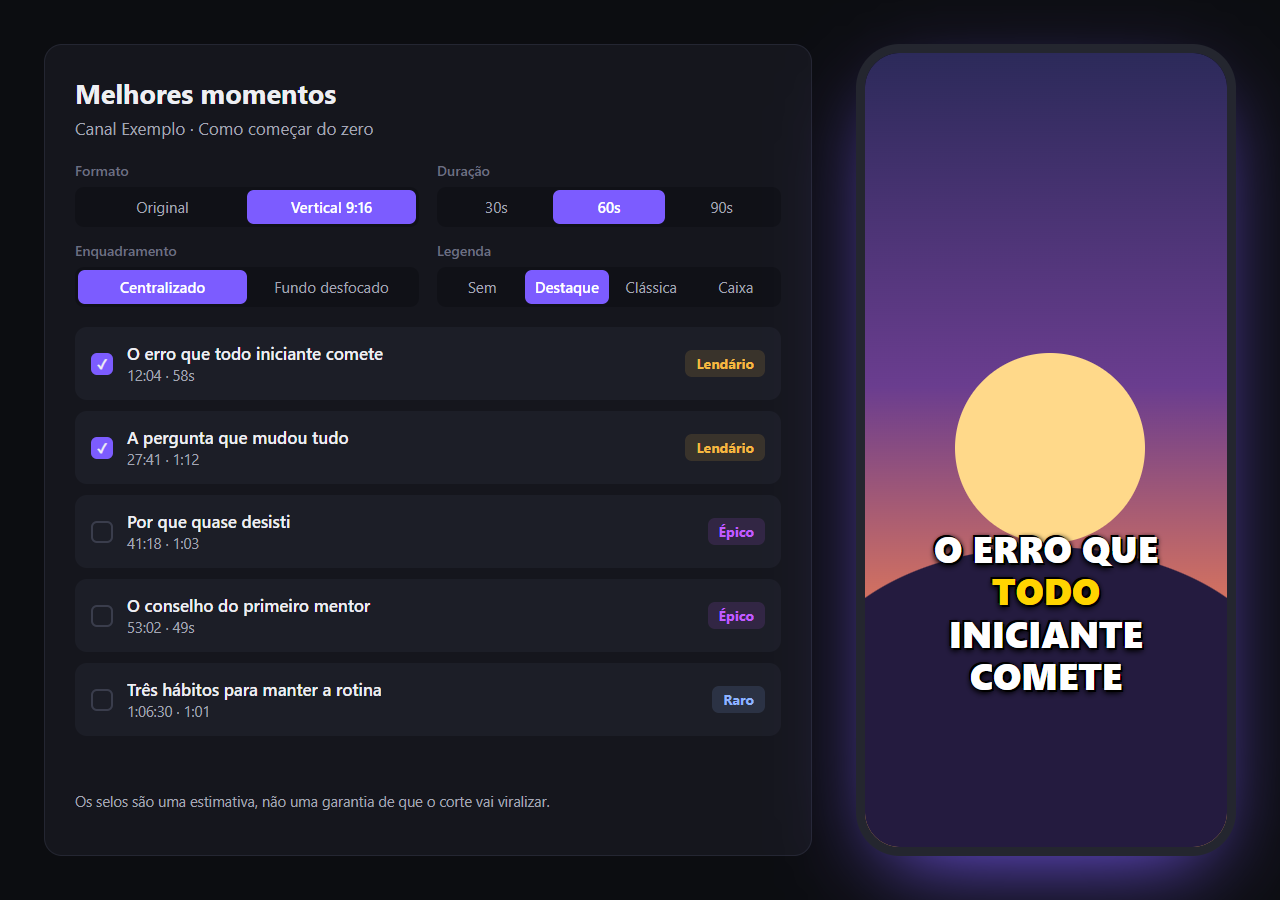
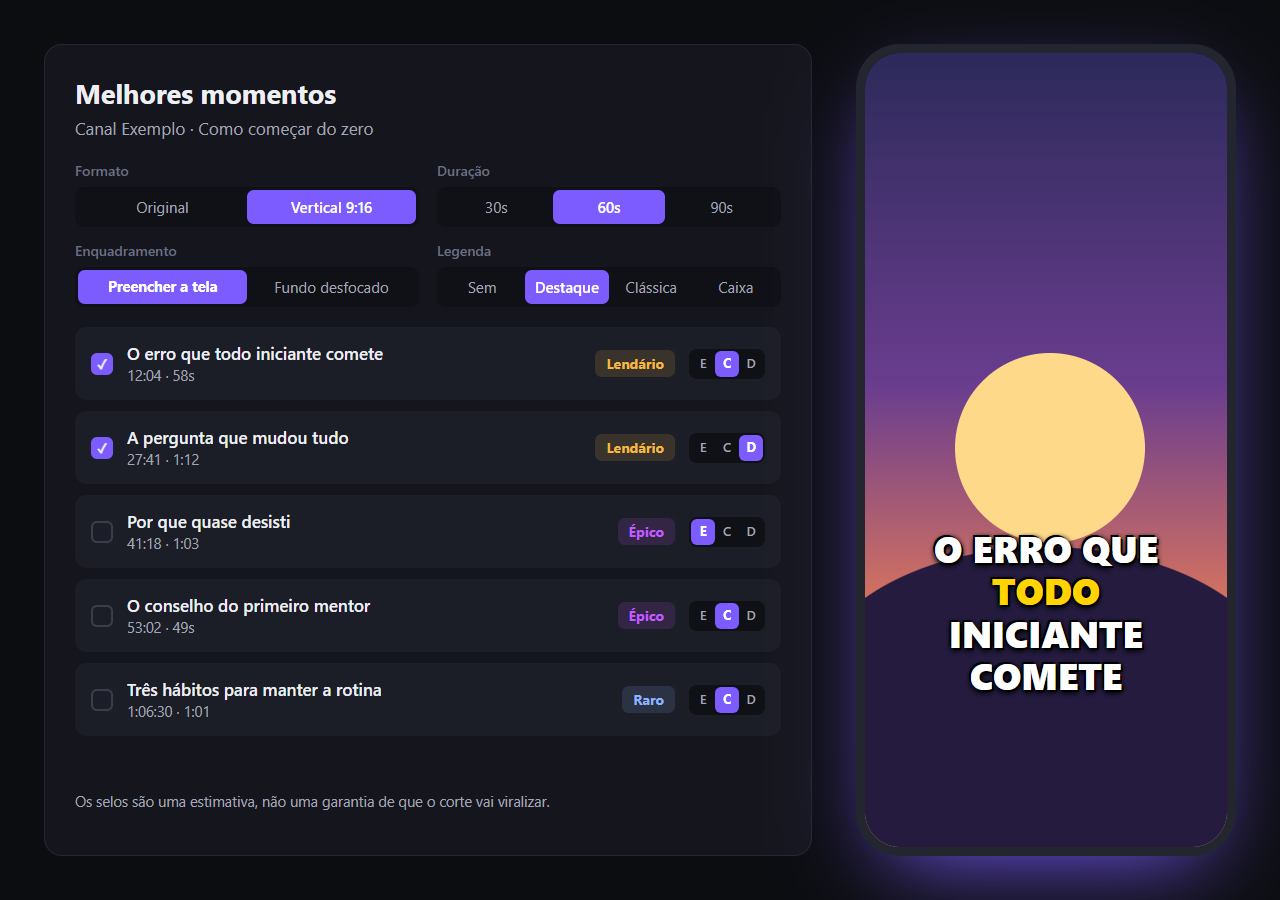
Site: atualiza (328ee40)

diff --git a/docs/index.html b/docs/index.html
@@ -299,13 +299,14 @@
             <li>Cortes em frases completas, de 30, 60 ou 90 segundos</li>
             <li>Selos Raro, Épico e Lendário, e “Só lendários” marca os mais fortes</li>
             <li>Vertical 9:16 em 1080x1920, pronto para Shorts, TikTok e Reels</li>
+            <li>Enquadre cada corte vertical à esquerda, no centro ou à direita</li>
             <li>Legendas no vídeo, em 3 estilos*</li>
             <li>Sem marca d'água</li>
           </ul>
           <p style="font-size:13.5px;margin:16px 0 0">*As legendas dependem de o vídeo ter transcrição no YouTube. Sem ela, o corte sai sem legenda. Os selos são uma estimativa, não uma garantia de que o corte vai viralizar. Use conteúdo seu ou que você tem autorização para usar.</p>
           <a class="btn btn-brand" href="#planos" style="margin-top:18px">Quero os cortes no Pro</a>
         </div>
-        <div class="frame"><img src="assets/melhores-momentos.png" alt="Painel Melhores momentos com cortes de exemplo do Canal Exemplo, selos Lendário, Épico e Raro, ao lado de um celular com um corte vertical legendado" loading="lazy" width="1280" height="900"></div>
+        <div class="frame"><img src="assets/melhores-momentos.png" alt="Painel Melhores momentos com cortes de exemplo do Canal Exemplo, selos Lendário, Épico e Raro, e botões E, C e D de enquadramento em cada corte, ao lado de um celular com um corte vertical legendado" loading="lazy" width="1280" height="900"></div>
       </div>
 
       <div class="feature rev">
@@ -443,6 +444,7 @@
         <details><summary>O Windows mostrou um aviso ao instalar. É seguro?</summary><p>Sim. O Fisgaclip é novo e o Windows SmartScreen ainda está “conhecendo” o app. Se aparecer o aviso, clique em “Mais informações” › “Executar assim mesmo”. O instalador não pede senha de administrador e o app se atualiza sozinho.</p></details>
         <details><summary>Quais plataformas são suportadas?</summary><p>YouTube (vídeos, Shorts, playlists e canais), TikTok, Instagram (Reels e posts), X, Twitch e mais de mil outros sites de vídeo. A análise de perfis funciona melhor no YouTube e no TikTok.</p></details>
         <details><summary>Em quais plataformas os Melhores momentos funcionam?</summary><p>Funcionam melhor no YouTube, com vídeos e lives encerradas. Não estão disponíveis em links do TikTok e do Instagram. Os cortes verticais saem prontos para você postar no Shorts, no TikTok e no Reels.</p></details>
+        <details><summary>Dá para escolher o enquadramento do corte vertical?</summary><p>Sim, no Pro. Em Melhores momentos, com a opção “Preencher a tela”, escolha E, C ou D na linha de cada corte para enquadrar à esquerda, no centro ou à direita. Assim, quem está fora do centro, como o segundo convidado de um podcast, não fica cortado. O lado é você quem escolhe e ele vale para o corte inteiro: o enquadramento não acompanha quem está falando.</p></details>
         <details><summary>E se o vídeo não tiver legenda?</summary><p>As legendas vêm da transcrição que o YouTube já tem do vídeo. Sem transcrição, o que inclui tudo da Twitch, o corte vertical sai normalmente, mas sem legenda.</p></details>
         <details><summary>O app coloca marca d'água nos cortes?</summary><p>Não. O Fisgaclip não adiciona marca d'água.</p></details>
         <details><summary>Posso baixar qualquer vídeo?</summary><p>O Fisgaclip é uma ferramenta de análise e organização. Baixe apenas conteúdo seu, de domínio público ou que você tem autorização para usar, e respeite os direitos autorais e os termos de cada plataforma.</p></details>
